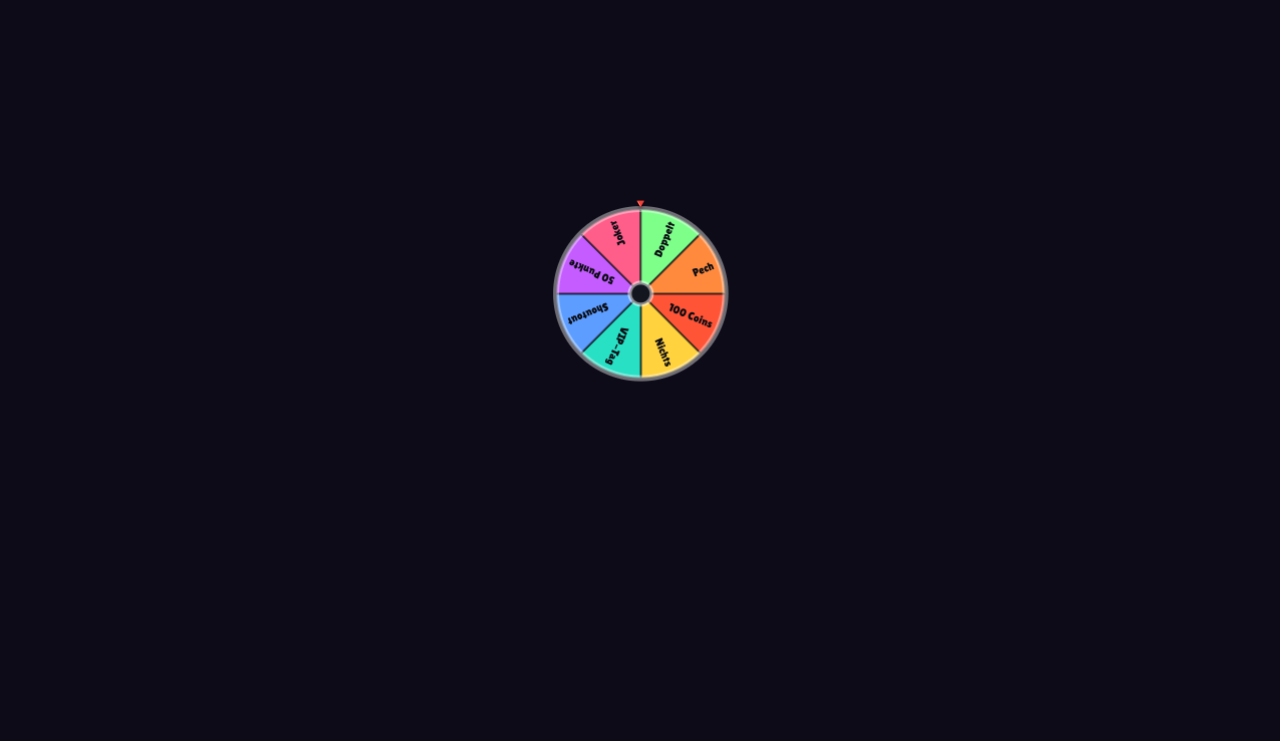
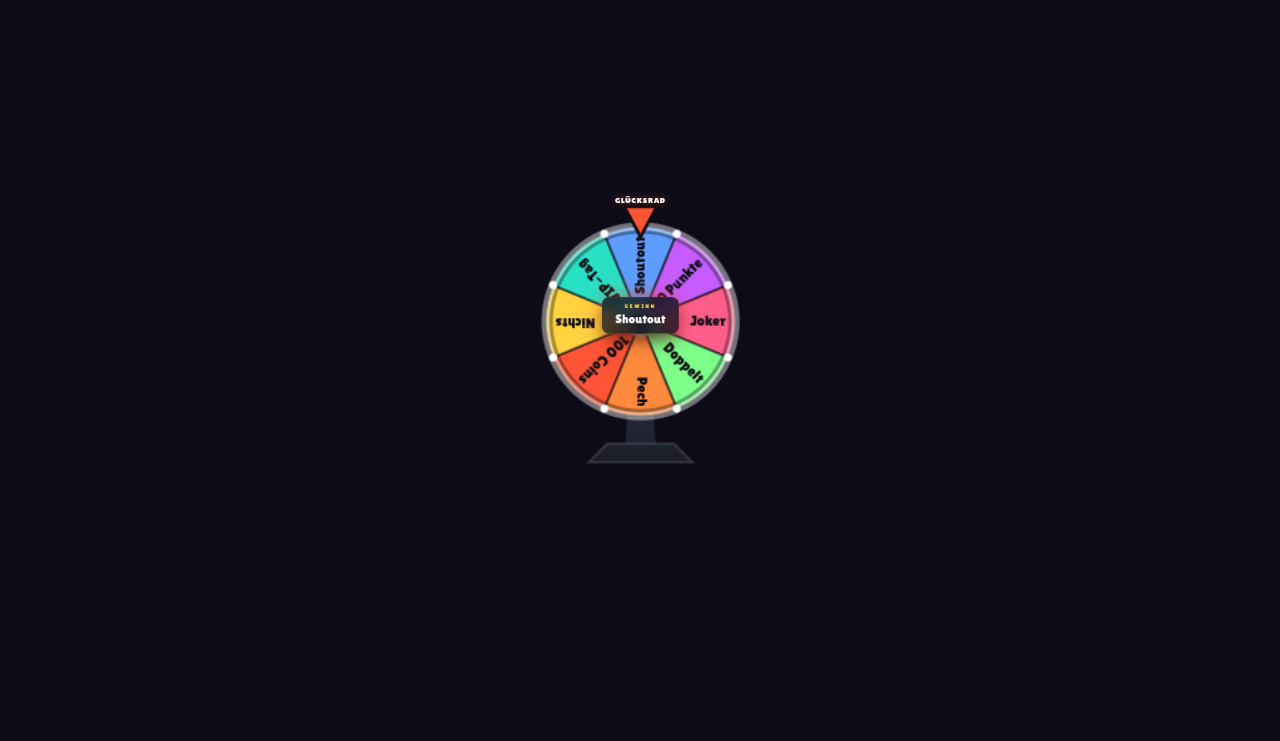
feat(wheel): profi-glücksrad — standfuß, auto ein-/ausblenden, anlauf + zeiger-klick
- standfuß (post + trapez-base) unterm rad gezeichnet
- auto show/hide: rad erscheint beim spin, verschwindet 3.2s nach dem
  gewinn (props.autoShow) → deckt sonst nichts zu
- spin-animation: anticipation (kurz zurück) → beschleunigen → ease-out;
  klickender zeiger (lenkt aus an segment-grenzen), pins am rand
- gewinn-popup mit segment + optionalem gewinner-namen
- editor: autoShow-schalter + titel-feld
- E2E verifiziert: !spin → punkte (100) abgezogen → rad eingeblendet,
  gedreht, auf 'Shoutout' gestoppt + popup

Changed region(s): [[0.4062, 0.2483, 0.5938, 0.6208]]

diff --git a/packages/widget-kit/wheel.js b/packages/widget-kit/wheel.js
@@ -1,22 +1,28 @@
-// wheel.js — Glücksrad. Segmente (Preise) als bunte Tortenstücke; dreht bei
-// einer 'spin_wheel'-Action smooth aus und zeigt den Gewinn groß an.
-// props: { segments?: '|'-getrennt, accent?, spinMs? }
-// Canvas-Rad + Zeiger; rAF nur während des Drehens.
+// wheel.js — Profi-Glücksrad: Rad auf Standfuß, klickender Zeiger,
+// Anlauf-Animation (kurz zurück → beschleunigen → smooth ausrollen),
+// Gewinn-Popup. Blendet sich beim Spin automatisch ein und nach dem
+// Ergebnis wieder aus (props.autoShow). props: { segments, accent, spinMs,
+//   autoShow?, title? }. rAF nur während der Show (TTLS-schonend).
 const STYLE_ID = 'bx-wh-style';
 const CSS = `
-.bx-wh { position: absolute; inset: 0; display: flex; align-items: center; justify-content: center; font-family: var(--bx-font-display); }
+.bx-wh { position: absolute; inset: 0; display: flex; align-items: center; justify-content: center;
+  font-family: var(--bx-font-display); transition: opacity .45s ease, transform .45s cubic-bezier(.2,1.3,.3,1); }
+.bx-wh.hidden { opacity: 0; transform: scale(.8) translateY(20px); pointer-events: none; }
 .bx-wh canvas { position: absolute; inset: 0; width: 100%; height: 100%; }
-.bx-wh-ptr { position: absolute; top: 2%; left: 50%; transform: translateX(-50%); font-size: 32px;
-  filter: drop-shadow(0 3px 4px rgba(0,0,0,.6)); z-index: 2; }
-.bx-wh-result { position: absolute; left: 50%; top: 50%; transform: translate(-50%,-50%) scale(.6); opacity: 0;
-  padding: 14px 30px; border-radius: 16px; text-align: center; pointer-events: none; z-index: 3;
-  background: var(--bx-glass); box-shadow: var(--bx-shadow), 0 0 50px -12px var(--bx-accent);
-  -webkit-backdrop-filter: blur(12px); backdrop-filter: blur(12px); }
-.bx-wh-result.show { animation: bx-wh-pop 2.6s cubic-bezier(.2,1.5,.3,1) forwards; }
-.bx-wh-result .k { font-size: 13px; letter-spacing: .3em; color: var(--bx-gold); text-transform: uppercase; }
-.bx-wh-result .v { font-size: 30px; color: #fff; -webkit-text-stroke: 3px #0a0b12; paint-order: stroke fill; margin-top: 4px; }
-@keyframes bx-wh-pop { 0% { opacity: 0; transform: translate(-50%,-50%) scale(.5); } 15% { opacity: 1; transform: translate(-50%,-50%) scale(1.08); }
-  30% { transform: translate(-50%,-50%) scale(1); } 80% { opacity: 1; } 100% { opacity: 0; transform: translate(-50%,-50%) scale(.9); } }
+.bx-wh-title { position: absolute; left: 0; right: 0; top: 1%; text-align: center; font-size: 22px;
+  letter-spacing: .08em; text-transform: uppercase; color: #fff;
+  -webkit-text-stroke: 3px #0a0b12; paint-order: stroke fill;
+  text-shadow: 0 0 16px color-mix(in srgb, var(--bx-accent) 60%, transparent), 0 3px 5px rgba(0,0,0,.5); }
+.bx-wh-result { position: absolute; left: 50%; top: 44%; transform: translate(-50%,-50%) scale(.5); opacity: 0;
+  padding: 16px 34px; border-radius: 18px; text-align: center; pointer-events: none; z-index: 4;
+  background: var(--bx-glass); box-shadow: var(--bx-shadow), 0 0 60px -10px var(--bx-accent);
+  -webkit-backdrop-filter: blur(14px); backdrop-filter: blur(14px); }
+.bx-wh-result.show { animation: bx-wh-pop 3s cubic-bezier(.2,1.5,.3,1) forwards; }
+.bx-wh-result .k { font-size: 14px; letter-spacing: .34em; color: var(--bx-gold); text-transform: uppercase; }
+.bx-wh-result .v { font-size: 34px; color: #fff; -webkit-text-stroke: 3px #0a0b12; paint-order: stroke fill; margin-top: 5px; }
+.bx-wh-result .w { font-size: 15px; color: var(--bx-teal); margin-top: 4px; }
+@keyframes bx-wh-pop { 0% { opacity: 0; transform: translate(-50%,-50%) scale(.45); } 12% { opacity: 1; transform: translate(-50%,-50%) scale(1.1); }
+  26% { transform: translate(-50%,-50%) scale(1); } 82% { opacity: 1; } 100% { opacity: 0; transform: translate(-50%,-50%) scale(.92); } }
 `;
 const COLORS = ['#ff5436','#ffd23e','#28e0c4','#5c9dff','#c45cff','#ff5e8a','#7dff8a','#ff8a3d'];
 function ensureStyle() { if (!document.getElementById(STYLE_ID)) { const s=document.createElement('style'); s.id=STYLE_ID; s.textContent=CSS; document.head.appendChild(s); } }
@@ -24,15 +30,19 @@ function ensureStyle() { if (!document.getElementById(STYLE_ID)) { const s=docum
 export default class Wheel {
   constructor(root, props) {
     ensureStyle();
+    this.accent = props.accent || '#ff5436';
     if (props.accent) root.style.setProperty('--bx-accent', props.accent);
     this.segments = String(props.segments || '100 Coins|Nichts|VIP-Tag|Shoutout|50 Punkte|Joker|Doppelt|Pech')
       .split('|').map((x) => x.trim()).filter(Boolean);
     if (this.segments.length < 2) this.segments = ['Gewinn', 'Niete'];
-    this.spinMs = Math.max(1500, Number(props.spinMs ?? 4500));
-    this.angle = 0; this.spinning = false;
+    this.spinMs = Math.max(2000, Number(props.spinMs ?? 5000));
+    this.autoShow = props.autoShow !== false;
+    this.title = props.title || 'Glücksrad';
+    this.angle = 0; this.spinning = false; this.pointerDefl = 0; this.lastAngle = 0;
     this.el = document.createElement('div');
-    this.el.className = 'bx-wh';
-    this.el.innerHTML = `<canvas></canvas><div class="bx-wh-ptr">🔻</div><div class="bx-wh-result"><div class="k">Gewinn</div><div class="v"></div></div>`;
+    this.el.className = 'bx-wh' + (this.autoShow ? ' hidden' : '');
+    this.el.innerHTML = `<canvas></canvas><div class="bx-wh-title"></div><div class="bx-wh-result"><div class="k">Gewinn</div><div class="v"></div><div class="w"></div></div>`;
+    this.el.querySelector('.bx-wh-title').textContent = this.title;
     root.appendChild(this.el);
     this.canvas = this.el.querySelector('canvas'); this.ctx = this.canvas.getContext('2d');
     this.resize = this.resize.bind(this); this.frame = this.frame.bind(this);
@@ -43,61 +53,99 @@ export default class Wheel {
     const r = this.el.getBoundingClientRect(); if (r.width===0) return;
     const dpr = Math.min(window.devicePixelRatio||1,2);
     this.canvas.width=r.width*dpr; this.canvas.height=r.height*dpr; this.ctx.setTransform(dpr,0,0,dpr,0,0);
-    this.w=r.width; this.h=r.height; this.cx=r.width/2; this.cy=r.height/2;
-    this.radius = Math.min(r.width, r.height)*0.42;
+    this.w=r.width; this.h=r.height;
+    // Rad oben, Standfuß darunter
+    this.radius = Math.min(r.width*0.42, r.height*0.34);
+    this.cx = r.width/2; this.cy = this.radius*1.18 + r.height*0.06;
     this.draw();
   }
   onAction(action) {
     if (action.kind !== 'spin_wheel' || this.spinning) return;
-    const n = this.segments.length;
-    const winner = typeof action.segmentIndex === 'number' ? action.segmentIndex % n : Math.floor(Math.random()*n);
-    // ziel-winkel: zeiger oben (−90°) soll auf segment-mitte zeigen, + viele umdrehungen
-    const seg = (Math.PI*2)/n;
+    const n = this.segments.length, seg = (Math.PI*2)/n;
+    const winner = typeof action.segmentIndex === 'number' ? ((action.segmentIndex%n)+n)%n : Math.floor(Math.random()*n);
     const targetMid = winner*seg + seg/2;
-    const pointerAng = -Math.PI/2;
-    const base = pointerAng - targetMid;
-    const turns = 5 + Math.floor(Math.random()*3);
+    const base = (-Math.PI/2) - targetMid;
+    const turns = 6 + Math.floor(Math.random()*3);
     this.fromAngle = this.angle % (Math.PI*2);
     this.toAngle = base + turns*Math.PI*2;
-    this.winner = winner; this.startT = 0; this.spinning = true;
+    this.winner = winner; this.winnerName = action.params && action.params.name ? String(action.params.name) : '';
+    this.startT = 0; this.spinning = true;
     const res = this.el.querySelector('.bx-wh-result'); res.classList.remove('show');
+    if (this.autoShow) this.el.classList.remove('hidden'); // einblenden
     requestAnimationFrame(this.frame);
   }
   frame(now) {
     now = now || performance.now();
-    if (!this.startT) this.startT = now;
+    if (!this.startT) { this.startT = now; this.lastAngle = this.fromAngle; }
     const t = Math.min(1, (now-this.startT)/this.spinMs);
-    const ease = 1 - Math.pow(1-t, 3); // ease-out cubic
-    this.angle = this.fromAngle + (this.toAngle-this.fromAngle)*ease;
+    // Anlauf: erst kurz zurück (anticipation), dann beschleunigen, dann ease-out
+    let p;
+    if (t < 0.12) { p = -0.04 * Math.sin((t/0.12)*Math.PI); } // wind-up rückwärts
+    else { const tt = (t-0.12)/0.88; p = 1 - Math.pow(1-tt, 3); } // ease-out cubic
+    this.angle = this.fromAngle + (this.toAngle-this.fromAngle)*p;
+    // Zeiger-Klick: lenkt aus, wenn eine Segment-Grenze unter ihm durchläuft
+    const n = this.segments.length, seg = (Math.PI*2)/n;
+    const speed = Math.abs(this.angle - this.lastAngle); this.lastAngle = this.angle;
+    const phase = ((-Math.PI/2 - this.angle) % seg + seg) % seg / seg; // 0..1 innerhalb segment
+    const nearEdge = Math.min(phase, 1-phase);
+    this.pointerDefl = nearEdge < 0.12 ? Math.min(0.5, speed*6) * (phase < 0.5 ? -1 : 1) : this.pointerDefl*0.7;
     this.draw();
-    if (t < 1) { requestAnimationFrame(this.frame); }
-    else { this.spinning = false; this.showResult(); }
+    if (t < 1) requestAnimationFrame(this.frame);
+    else { this.spinning = false; this.pointerDefl = 0; this.draw(); this.showResult(); }
   }
   showResult() {
     const res = this.el.querySelector('.bx-wh-result');
     res.querySelector('.v').textContent = this.segments[this.winner];
+    res.querySelector('.w').textContent = this.winnerName ? `🎉 ${this.winnerName}` : '';
     res.classList.remove('show'); void res.offsetWidth; res.classList.add('show');
+    // nach dem ergebnis wieder ausblenden
+    clearTimeout(this.hideT);
+    if (this.autoShow) this.hideT = setTimeout(() => this.el.classList.add('hidden'), 3200);
   }
   draw() {
-    const ctx = this.ctx, n = this.segments.length, seg = (Math.PI*2)/n;
+    const ctx = this.ctx, n = this.segments.length, seg = (Math.PI*2)/n, R = this.radius;
     ctx.clearRect(0,0,this.w,this.h);
+    // ── Standfuß (hinter dem Rad) ──
+    const baseY = this.cy + R + (this.h - (this.cy+R))*0.5;
+    const footW = R*1.1, footH = (this.h-(this.cy+R))*0.34;
+    const ng = ctx.createLinearGradient(0, this.cy, 0, baseY+footH);
+    ng.addColorStop(0,'#3a4055'); ng.addColorStop(1,'#1a1d28');
+    ctx.fillStyle = ng;
+    // post
+    ctx.beginPath(); ctx.moveTo(this.cx-R*0.1, this.cy+R*0.5); ctx.lineTo(this.cx-R*0.16, baseY);
+    ctx.lineTo(this.cx+R*0.16, baseY); ctx.lineTo(this.cx+R*0.1, this.cy+R*0.5); ctx.closePath(); ctx.fill();
+    // base (trapez)
+    ctx.beginPath(); ctx.moveTo(this.cx-footW/2, baseY+footH); ctx.lineTo(this.cx-footW*0.32, baseY);
+    ctx.lineTo(this.cx+footW*0.32, baseY); ctx.lineTo(this.cx+footW/2, baseY+footH); ctx.closePath();
+    ctx.fill(); ctx.strokeStyle='rgba(255,255,255,.12)'; ctx.lineWidth=2; ctx.stroke();
+    // ── Rad ──
     ctx.save(); ctx.translate(this.cx, this.cy); ctx.rotate(this.angle);
     for (let i=0;i<n;i++) {
-      ctx.beginPath(); ctx.moveTo(0,0); ctx.arc(0,0,this.radius, i*seg, (i+1)*seg); ctx.closePath();
+      ctx.beginPath(); ctx.moveTo(0,0); ctx.arc(0,0,R, i*seg, (i+1)*seg); ctx.closePath();
       ctx.fillStyle = COLORS[i%COLORS.length]; ctx.fill();
-      ctx.strokeStyle = 'rgba(10,11,18,.6)'; ctx.lineWidth = 2; ctx.stroke();
-      // label
-      ctx.save(); ctx.rotate(i*seg + seg/2); ctx.textAlign='right'; ctx.fillStyle='#0a0b12';
-      ctx.font = `${Math.max(11, this.radius*0.11)}px 'Lilita One', sans-serif`;
-      const txt = this.segments[i].length>12 ? this.segments[i].slice(0,11)+'…' : this.segments[i];
-      ctx.fillText(txt, this.radius*0.92, 5); ctx.restore();
+      ctx.strokeStyle='rgba(10,11,18,.55)'; ctx.lineWidth=2; ctx.stroke();
+      ctx.save(); ctx.rotate(i*seg+seg/2); ctx.textAlign='right'; ctx.fillStyle='#0a0b12';
+      ctx.font = `${Math.max(12, R*0.115)}px 'Lilita One', sans-serif`;
+      const txt = this.segments[i].length>13 ? this.segments[i].slice(0,12)+'…' : this.segments[i];
+      ctx.fillText(txt, R*0.9, R*0.04); ctx.restore();
     }
     ctx.restore();
-    // nabe
-    ctx.beginPath(); ctx.arc(this.cx,this.cy,this.radius*0.13,0,Math.PI*2);
-    ctx.fillStyle='#14161f'; ctx.fill(); ctx.lineWidth=4; ctx.strokeStyle='rgba(255,255,255,.5)'; ctx.stroke();
-    // rand
-    ctx.beginPath(); ctx.arc(this.cx,this.cy,this.radius,0,Math.PI*2); ctx.lineWidth=6; ctx.strokeStyle='rgba(255,255,255,.4)'; ctx.stroke();
+    // Rand
+    ctx.beginPath(); ctx.arc(this.cx,this.cy,R,0,Math.PI*2); ctx.lineWidth=7; ctx.strokeStyle='rgba(255,255,255,.42)'; ctx.stroke();
+    ctx.lineWidth=3; ctx.strokeStyle='rgba(0,0,0,.35)'; ctx.beginPath(); ctx.arc(this.cx,this.cy,R-4,0,Math.PI*2); ctx.stroke();
+    // Pins am Rand (kleine punkte)
+    for (let i=0;i<n;i++){ const a=this.angle+i*seg; const px=this.cx+Math.cos(a)*R, py=this.cy+Math.sin(a)*R;
+      ctx.beginPath(); ctx.arc(px,py,3.2,0,Math.PI*2); ctx.fillStyle='#fff'; ctx.fill(); }
+    // Nabe
+    ctx.beginPath(); ctx.arc(this.cx,this.cy,R*0.14,0,Math.PI*2);
+    const hg=ctx.createRadialGradient(this.cx-4,this.cy-4,2,this.cx,this.cy,R*0.14);
+    hg.addColorStop(0,'#454d68'); hg.addColorStop(1,'#14161f');
+    ctx.fillStyle=hg; ctx.fill(); ctx.lineWidth=4; ctx.strokeStyle='rgba(255,255,255,.5)'; ctx.stroke();
+    // ── Zeiger (klick-flap am oberen Rand) ──
+    ctx.save(); ctx.translate(this.cx, this.cy - R - 2); ctx.rotate(this.pointerDefl);
+    ctx.beginPath(); ctx.moveTo(-13,-14); ctx.lineTo(13,-14); ctx.lineTo(0,10); ctx.closePath();
+    ctx.fillStyle = this.accent; ctx.fill(); ctx.strokeStyle='#0a0b12'; ctx.lineWidth=2.5; ctx.stroke();
+    ctx.restore();
   }
-  destroy() { this.observer.disconnect(); this.el.remove(); }
+  destroy() { clearTimeout(this.hideT); this.observer.disconnect(); this.el.remove(); }
 }

diff --git a/apps/desktop/src/renderer/pages/OverlayPage.tsx b/apps/desktop/src/renderer/pages/OverlayPage.tsx
@@ -157,10 +157,12 @@ const WIDGET_TYPES: {
   },
   {
     type: 'wheel', label: 'Glücksrad', desc: 'Dreht bei einer Trigger-Aktion (z.B. !spin gegen Punkte) und zeigt den Gewinn. Preise frei wählbar.',
-    w: 460, h: 460, props: { segments: '100 Coins|Nichts|VIP-Tag|Shoutout|50 Punkte|Joker|Doppelt|Pech', spinMs: 4500, accent: '#ff5436' },
+    w: 480, h: 560, props: { segments: '100 Coins|Nichts|VIP-Tag|Shoutout|50 Punkte|Joker|Doppelt|Pech', spinMs: 5000, accent: '#ff5436', autoShow: true, title: 'Glücksrad' },
     fields: [
       { key: 'segments', label: 'Preise', type: 'text', hint: 'Mit | trennen — jeder Eintrag ein Segment, z.B. „100 Coins|Nichts|VIP".' },
+      { key: 'title', label: 'Titel', type: 'text', hint: 'Überschrift über dem Rad.' },
       { key: 'spinMs', label: 'Drehdauer', type: 'seconds', hint: 'Wie lange das Rad dreht, bis es stoppt.' },
+      { key: 'autoShow', label: 'Auto ein-/ausblenden', type: 'boolean', hint: 'An: Rad erscheint beim Spin und verschwindet nach dem Ergebnis (deckt sonst nichts zu). Aus: dauerhaft sichtbar.' },
       ACCENT_FIELD,
     ],
   },